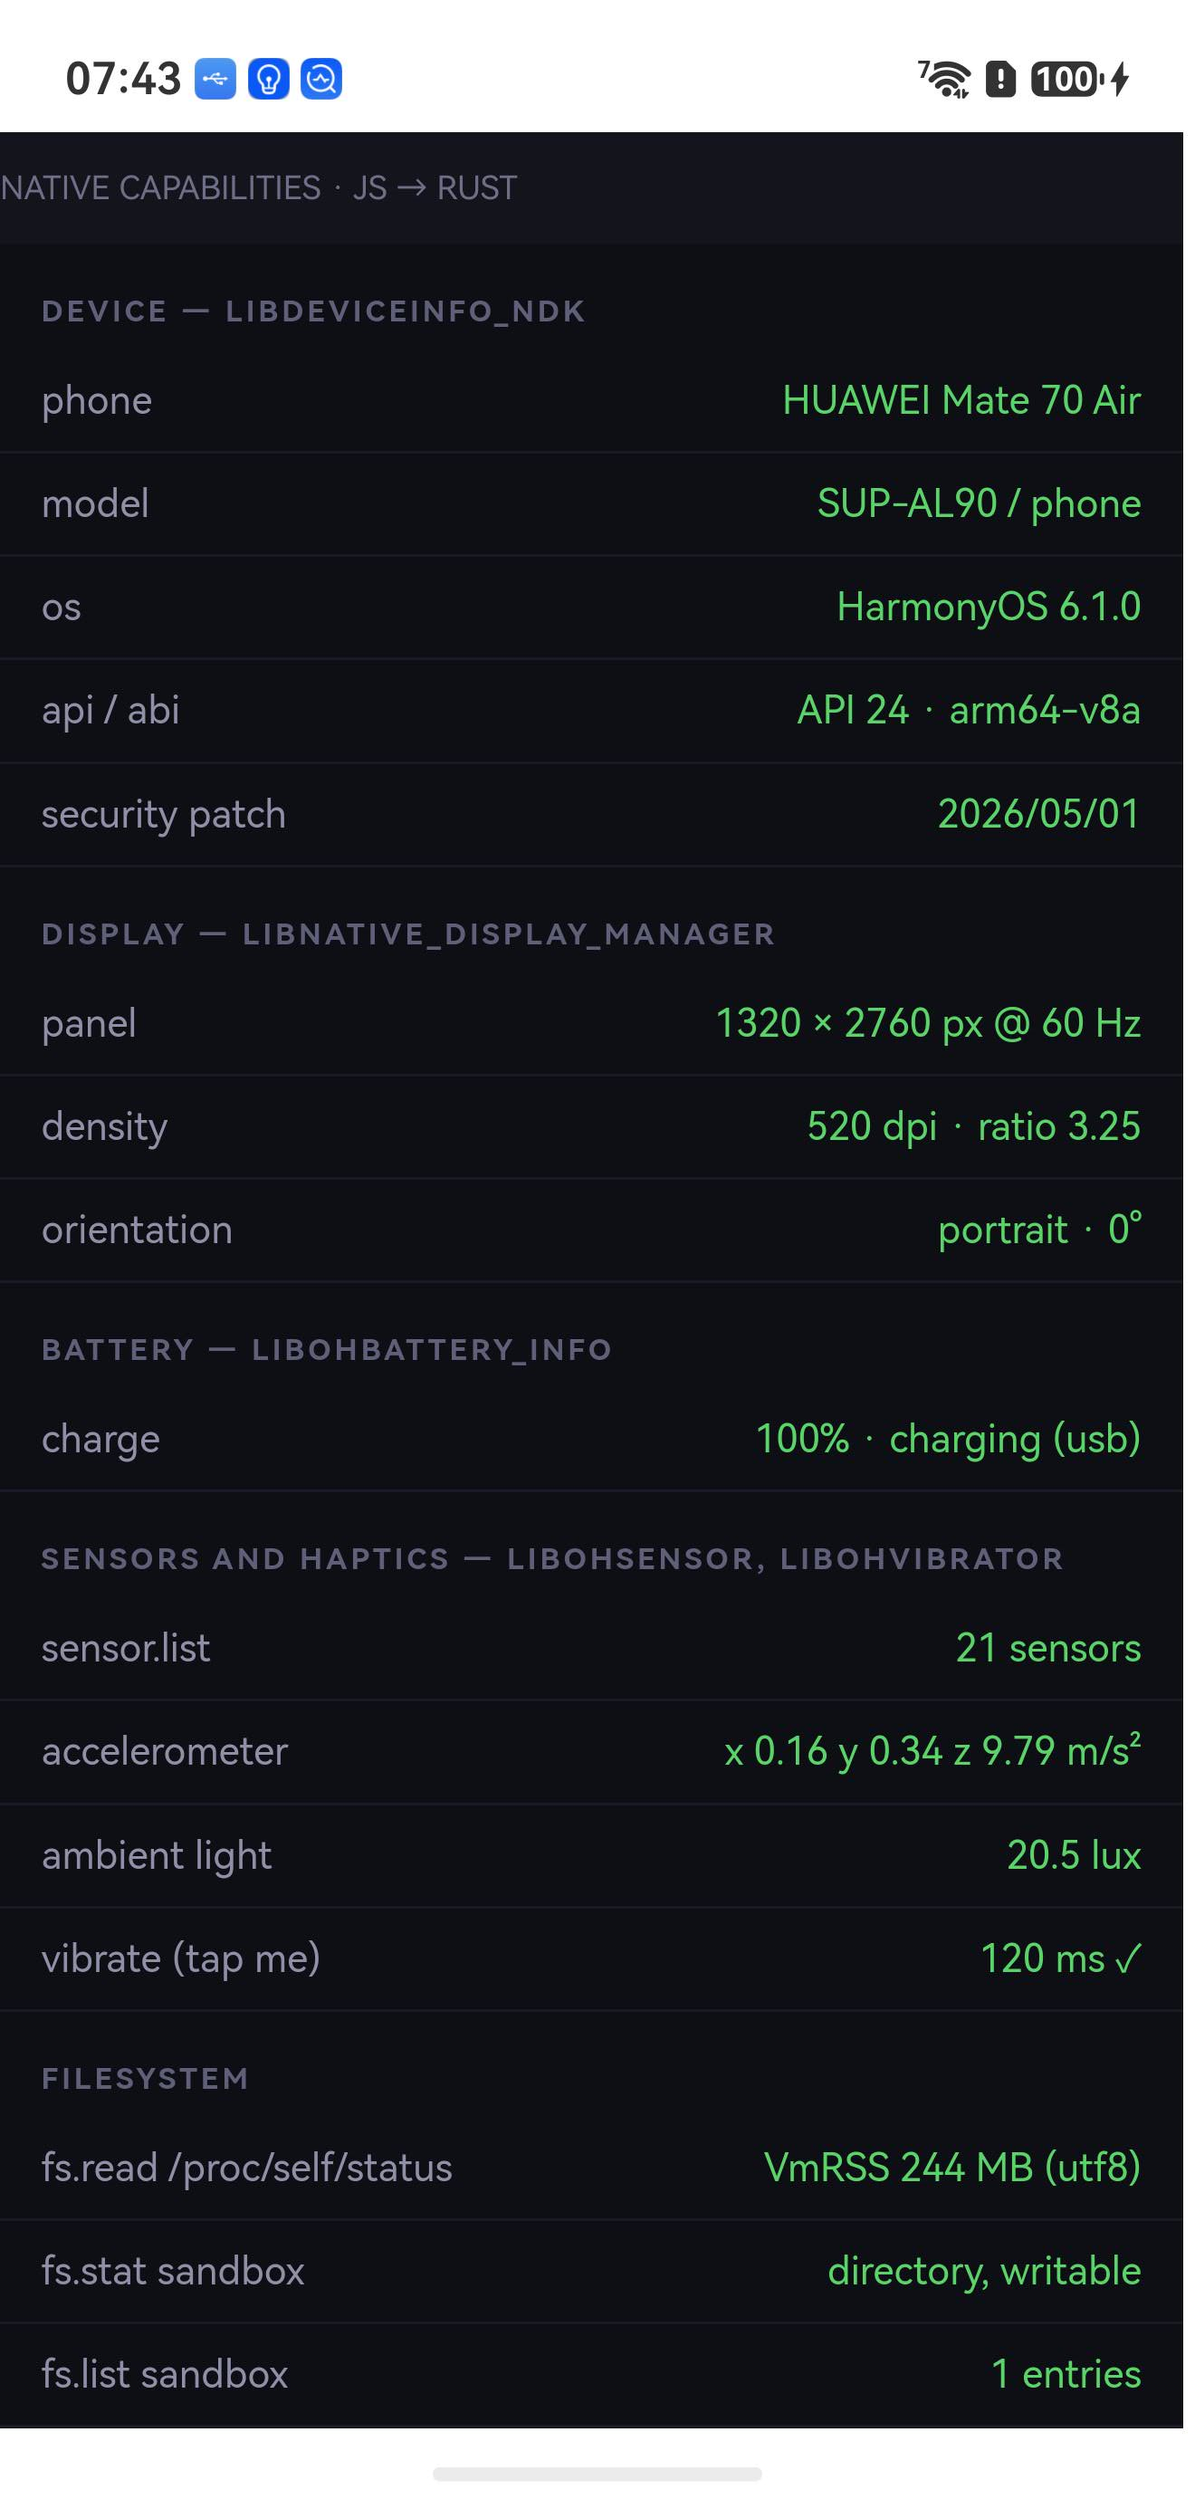
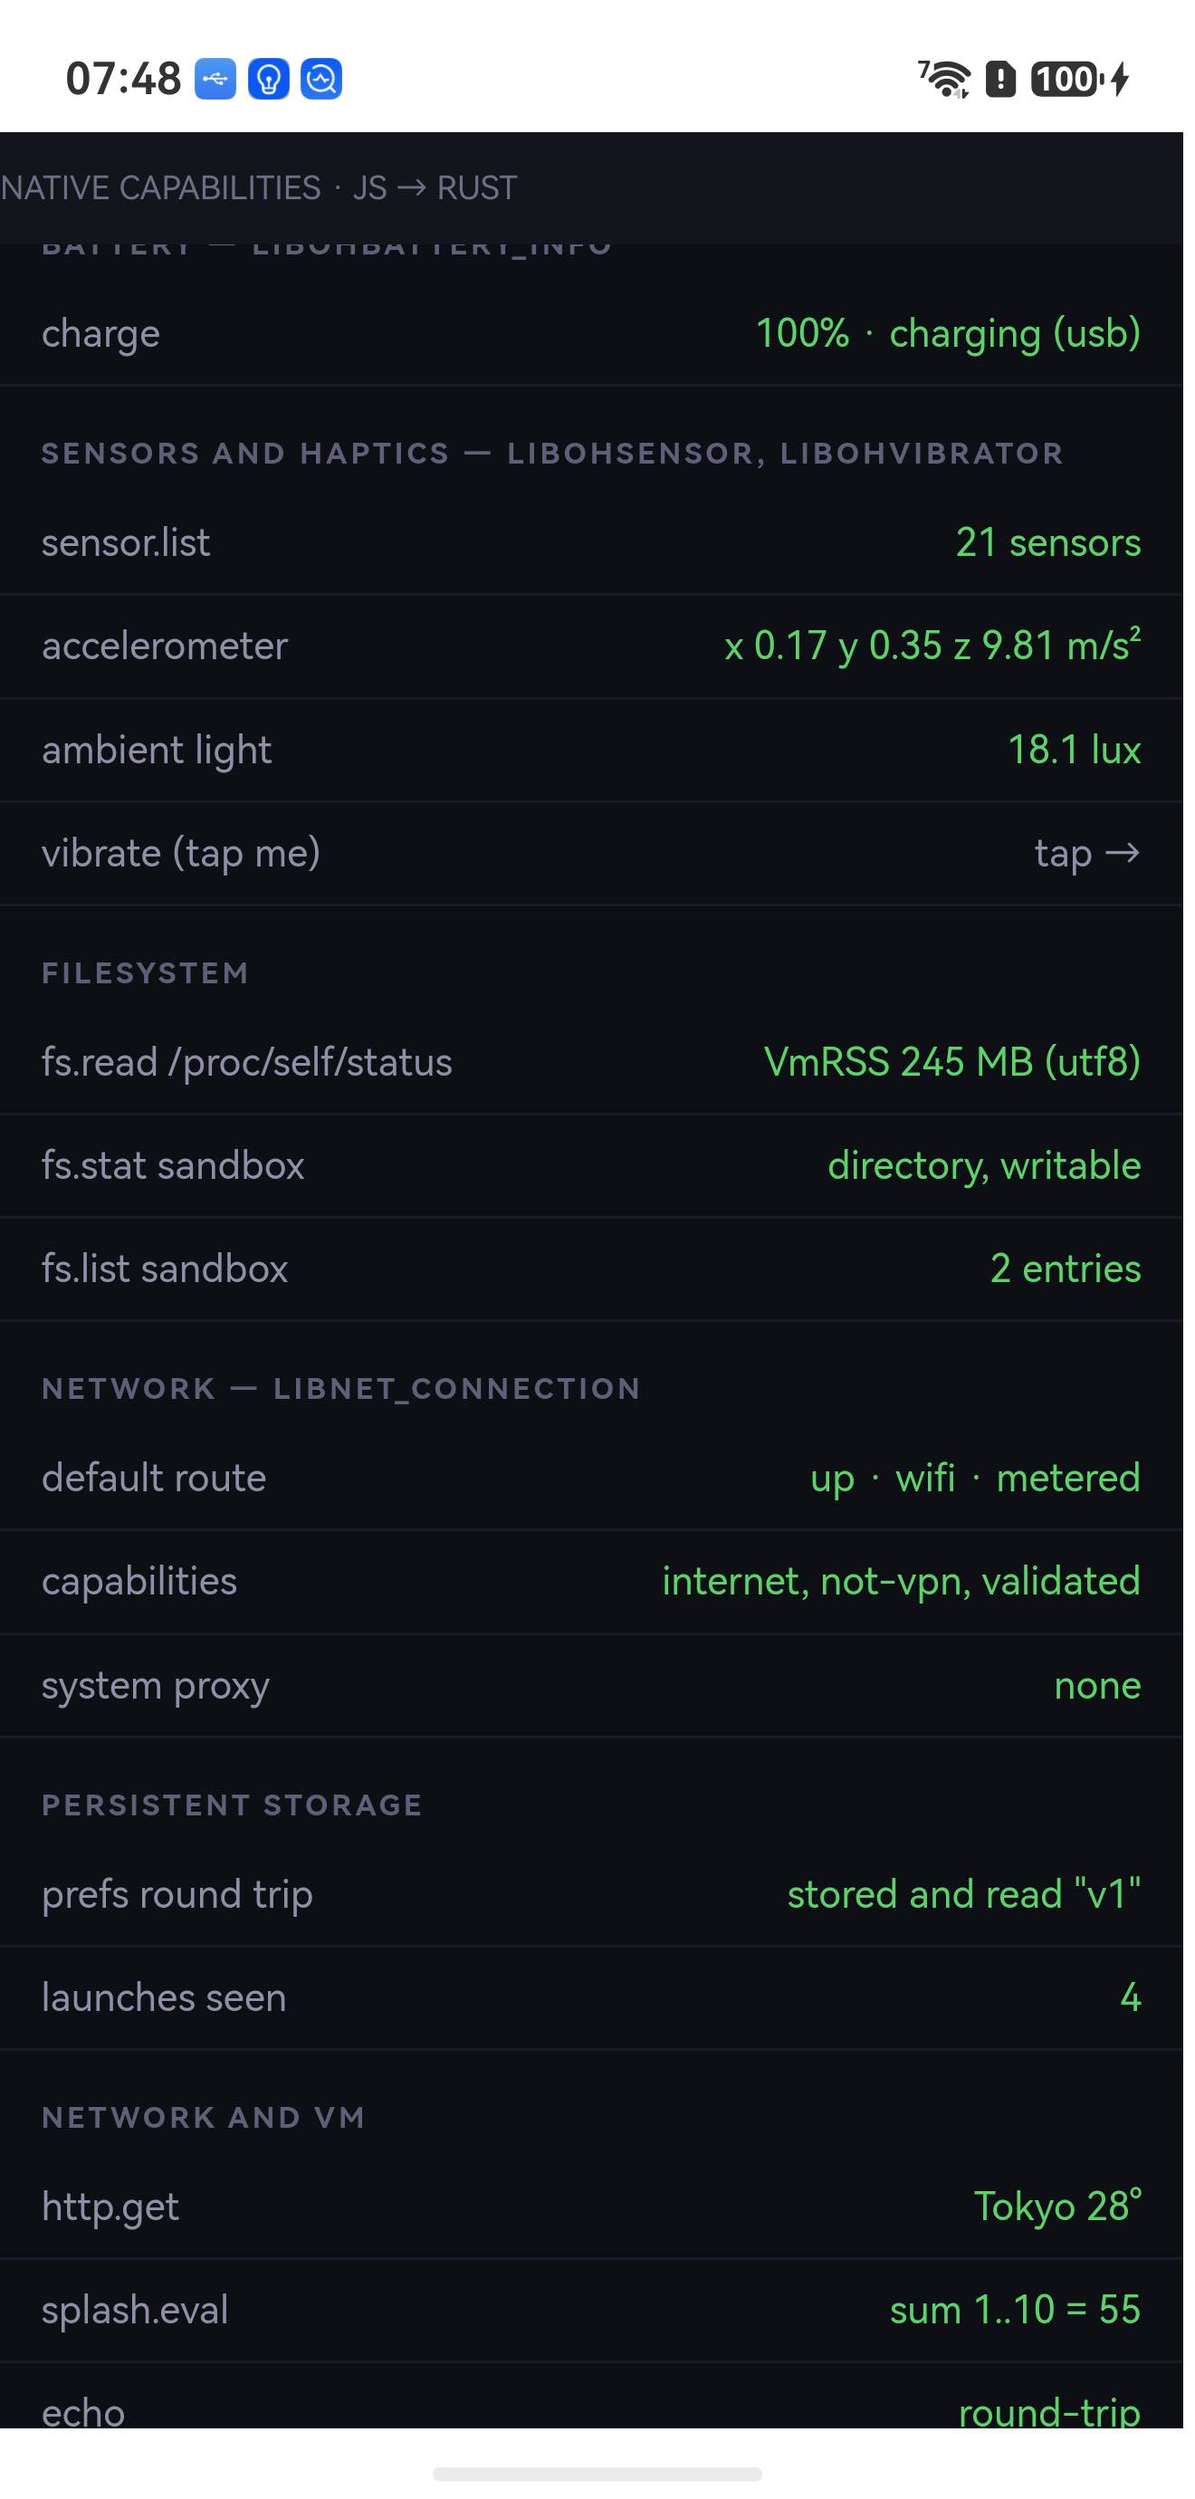
Two more capabilities: net.info and persistent prefs (#20)
net.info     libnet_connection   what the default route actually is
  prefs.*      std::fs             key-value that survives the process

Measured on the device:

  default route    up · wifi · metered
  capabilities     internet, not-vpn, validated
  system proxy     none
  prefs round trip stored and read "v1"
  launches seen    4

`navigator.onLine` is a boolean that mostly means "the browser has not noticed
a failure yet". net.info is the real thing: which bearer carries the default
route, whether the system considers the link *validated* rather than merely
associated, whether it is metered, and whether a proxy sits in front of it.

That last field earns its place from this project's own history. A stale global
proxy pointing at a 127.0.0.1 port nothing was listening on is what made a phone
here look like it had no internet while Wi-Fi showed connected -- a failure that
is invisible from inside a page and one row here.

prefs exists because a page in a web slot cannot lean on localStorage. The slot
is re-created whenever the DSL rebuilds, and generated pages arrive through
loadData under a synthetic baseUrl, so the origin the storage was scoped to is
not reliably the same one next time. State that survives has to live where the
app lives: one JSON file under files/, rewritten whole through a temp file and
a rename so a crash mid-write leaves the previous contents rather than a
truncated file that will not parse.
[…]

diff --git a/crates/splash-oh/src/netinfo.rs b/crates/splash-oh/src/netinfo.rs
@@ -1,0 +1,152 @@
+//! What the network actually is, from `libnet_connection`.
+//!
+//! `navigator.onLine` in a page is a boolean that mostly means "the browser has
+//! not noticed a failure yet". This is the real thing: which bearer carries the
+//! default route, whether the system considers the link validated (as opposed
+//! to merely associated), whether it is metered, and whether a proxy is in
+//! front of it.
+//!
+//! The proxy field earns its place. A stale global proxy pointing at a
+//! `127.0.0.1` port nothing was listening on is exactly what made a phone in
+//! this project look like it had no internet while the Wi-Fi showed connected —
+//! a failure that is invisible from inside a page and obvious here.
+
+use crate::bridge::json_str;
+use std::os::raw::c_char;
+
+const MAX_STR: usize = 256;
+const MAX_CAP: usize = 32;
+const MAX_BEARER: usize = 32;
+const MAX_EXCLUSION: usize = 256;
+
+#[repr(C)]
+struct NetHandle {
+    net_id: i32,
+}
+
+#[repr(C)]
+struct NetCapabilities {
+    link_up_bandwidth_kbps: u32,
+    link_down_bandwidth_kbps: u32,
+    net_caps: [i32; MAX_CAP],
+    net_caps_size: i32,
+    bearer_types: [i32; MAX_BEARER],
+    bearer_types_size: i32,
+}
+
+#[repr(C)]
+struct HttpProxy {
+    host: [c_char; MAX_STR],
+    exclusion_list: [[c_char; MAX_STR]; MAX_EXCLUSION],
+    exclusion_list_size: i32,
+    port: u16,
+}
+
+extern "C" {
+    fn OH_NetConn_HasDefaultNet(has: *mut i32) -> i32;
+    fn OH_NetConn_GetDefaultNet(handle: *mut NetHandle) -> i32;
+    fn OH_NetConn_IsDefaultNetMetered(metered: *mut i32) -> i32;
+    fn OH_NetConn_GetNetCapabilities(handle: *mut NetHandle, caps: *mut NetCapabilities) -> i32;
+    fn OH_NetConn_GetDefaultHttpProxy(proxy: *mut HttpProxy) -> i32;
+}
+
+fn bearer_name(b: i32) -> &'static str {
+    match b {
+        0 => "cellular",
+        1 => "wifi",
+        2 => "bluetooth",
+        3 => "ethernet",
+        4 => "vpn",
+        _ => "unknown",
+    }
+}
+
+fn cap_name(c: i32) -> &'static str {
+    match c {
+        0 => "mms",
+        11 => "not-metered",
+        12 => "internet",
+        15 => "not-vpn",
+        16 => "validated",
+        17 => "portal",
+        31 => "checking-connectivity",
+        _ => "other",
+    }
+}
+
+fn c_str(buf: &[c_char]) -> String {
+    let bytes: Vec<u8> = buf
+        .iter()
+        .map(|&c| c as u8)
+        .take_while(|&c| c != 0)
+        .collect();
+    String::from_utf8_lossy(&bytes).into_owned()
+}
+
+/// The default route and what carries it. JSON object.
+pub fn info() -> String {
+    let mut has: i32 = 0;
+    let has_net = unsafe { OH_NetConn_HasDefaultNet(&mut has) } == 0 && has != 0;
+
+    let mut metered: i32 = 0;
+    let metered_ok = unsafe { OH_NetConn_IsDefaultNetMetered(&mut metered) } == 0;
+
+    let mut bearers: Vec<&str> = Vec::new();
+    let mut caps: Vec<&str> = Vec::new();
+    let mut net_id = -1;
+    let mut down = 0u32;
+    let mut up = 0u32;
+
+    if has_net {
+        let mut handle = NetHandle { net_id: 0 };
+        if unsafe { OH_NetConn_GetDefaultNet(&mut handle) } == 0 {
+            net_id = handle.net_id;
+            // Zeroed rather than Default-derived: the struct is ~70 KB of
+            // fixed arrays and only the *_size fields say how much is real.
+            let mut c: NetCapabilities = unsafe { std::mem::zeroed() };
+            if unsafe { OH_NetConn_GetNetCapabilities(&mut handle, &mut c) } == 0 {
+                down = c.link_down_bandwidth_kbps;
+                up = c.link_up_bandwidth_kbps;
+                for i in 0..(c.bearer_types_size.max(0) as usize).min(MAX_BEARER) {
+                    bearers.push(bearer_name(c.bearer_types[i]));
+                }
+                for i in 0..(c.net_caps_size.max(0) as usize).min(MAX_CAP) {
+                    caps.push(cap_name(c.net_caps[i]));
+                }
+            }
+        }
+    }
+
+    // Boxed: HttpProxy carries a 256 x 256 exclusion list, which is 64 KB and
+    // has no business on the stack.
+    let mut proxy: Box<HttpProxy> = unsafe { Box::new(std::mem::zeroed()) };
+    let proxy_json = if unsafe { OH_NetConn_GetDefaultHttpProxy(&mut *proxy) } == 0 {
+        let host = c_str(&proxy.host);
+        if host.is_empty() {
+            "null".to_string()
+        } else {
+            format!("{{\"host\":{},\"port\":{}}}", json_str(&host), proxy.port)
+        }
+    } else {
+        "null".to_string()
+    };
+
+    let list = |v: &[&str]| v.iter().map(|s| json_str(s)).collect::<Vec<_>>().join(",");
+
+    format!(
+        "{{\"online\":{},\"netId\":{},\"metered\":{},\"bearers\":[{}],\"capabilities\":[{}],\
+         \"downKbps\":{},\"upKbps\":{},\"proxy\":{}}}",
+        has_net,
+        net_id,
+        if metered_ok {
+            (metered != 0).to_string()
+        } else {
+            "null".into()
+        },
+        list(&bearers),
+        list(&caps),
+        down,
+        up,
+        proxy_json,
+    )
+}

diff --git a/crates/splash-oh/src/prefs.rs b/crates/splash-oh/src/prefs.rs
@@ -1,0 +1,97 @@
+//! Persistent key-value storage for web surfaces, in the app sandbox.
+//!
+//! A page in a Splash web slot cannot use `localStorage` the way a browser page
+//! can: the slot is re-created whenever the DSL rebuilds, and generated pages
+//! arrive through `loadData` under a synthetic `baseUrl`, so whatever origin the
+//! storage was scoped to is not reliably the same one next time. State that
+//! survives has to live where the app lives.
+//!
+//! One JSON file under `files/`, rewritten whole. That is the right shape at
+//! this size — a card storing a few dozen settings is not a database, and a
+//! whole-file rewrite cannot leave a half-updated record behind the way an
+//! append log can.
+
+use crate::bridge::json_str;
+use std::collections::BTreeMap;
+use std::sync::Mutex;
+
+/// Where the file lives. `el2/base/files` is the app's own directory — the
+/// probe in `apps/files.rs` confirmed on device that this is what OHOS gives an
+/// app, rather than the Android-shaped `haps/entry/files` that does not exist.
+const STORE: &str = "/data/storage/el2/base/files/prefs.json";
+
+/// Caps, because a page decides what goes in here.
+const MAX_KEYS: usize = 500;
+const MAX_VALUE: usize = 64 * 1024;
+
+/// Loaded once and kept, so a read is not a file read. `None` until first use.
+static CACHE: Mutex<Option<BTreeMap<String, String>>> = Mutex::new(None);
+
+fn load() -> BTreeMap<String, String> {
+    let text = std::fs::read_to_string(STORE).unwrap_or_default();
+    serde_json::from_str::<BTreeMap<String, String>>(&text).unwrap_or_default()
+}
+
+fn with<T>(f: impl FnOnce(&mut BTreeMap<String, String>) -> T) -> T {
+    let mut guard = CACHE.lock().unwrap_or_else(|e| e.into_inner());
+    if guard.is_none() {
+        *guard = Some(load());
+    }
+    f(guard.as_mut().expect("just populated"))
+}
+
+/// Write the map out. Via a temp file and a rename, so a crash mid-write leaves
+/// the previous contents rather than a truncated file that will not parse.
+fn flush(map: &BTreeMap<String, String>) -> Result<(), String> {
+    let body = serde_json::to_string(map).map_err(|e| e.to_string())?;
+    let tmp = format!("{STORE}.tmp");
+    std::fs::write(&tmp, body).map_err(|e| e.to_string())?;
+    std::fs::rename(&tmp, STORE).map_err(|e| e.to_string())
+}
+
+/// One value, or JSON null when absent.
+pub fn get(key: &str) -> String {
+    with(|m| match m.get(key) {
+        Some(v) => json_str(v),
+        None => "null".into(),
+    })
+}
+
+/// Every key. Useful to a page that wants to know what it stored last run.
+pub fn keys() -> String {
+    with(|m| {
+        format!(
+            "[{}]",
+            m.keys().map(|k| json_str(k)).collect::<Vec<_>>().join(",")
+        )
+    })
+}
+
+pub fn set(key: &str, value: &str) -> Result<String, String> {
+    if key.is_empty() {
+        return Err("empty key".into());
+    }
+    if value.len() > MAX_VALUE {
+        return Err(format!("value larger than {MAX_VALUE} bytes"));
+    }
+    with(|m| {
+        if !m.contains_key(key) && m.len() >= MAX_KEYS {
+            return Err(format!("at the {MAX_KEYS}-key limit"));
+        }
+        m.insert(key.to_string(), value.to_string());
+        flush(m)?;
+        Ok(format!("{{\"key\":{},\"stored\":true}}", json_str(key)))
+    })
+}
+
+pub fn remove(key: &str) -> Result<String, String> {
+    with(|m| {
+        let existed = m.remove(key).is_some();
+        flush(m)?;
+        Ok(format!(
+            "{{\"key\":{},\"removed\":{}}}",
+            json_str(key),
+            existed
+        ))
+    })
+}

diff --git a/crates/splash-oh/src/apps/native.rs b/crates/splash-oh/src/apps/native.rs
@@ -83,6 +83,15 @@ h2{{font-size:10px;letter-spacing:1.2px;text-transform:uppercase;color:#5f5f7a;
 <div class=r><span class=k>fs.stat sandbox</span><span class="v m" id=f_stat>&#8230;</span></div>
 <div class=r><span class=k>fs.list sandbox</span><span class="v m" id=f_list>&#8230;</span></div>
 
+<h2>Network &mdash; libnet_connection</h2>
+<div class=r><span class=k>default route</span><span class="v m" id=w_net>&#8230;</span></div>
+<div class=r><span class=k>capabilities</span><span class="v m" id=w_caps>&#8230;</span></div>
+<div class=r><span class=k>system proxy</span><span class="v m" id=w_proxy>&#8230;</span></div>
+
+<h2>Persistent storage</h2>
+<div class=r><span class=k>prefs round trip</span><span class="v m" id=k_rt>&#8230;</span></div>
+<div class=r><span class=k>launches seen</span><span class="v m" id=k_runs>&#8230;</span></div>
+
 <h2>Network and VM</h2>
 <div class=r><span class=k>http.get</span><span class="v m" id=n_get>&#8230;</span></div>
 <div class=r><span class=k>splash.eval</span><span class="v m" id=n_vm>&#8230;</span></div>
@@ -106,7 +115,8 @@ devicePixelRatio.</div>
   if (!window.splash || !splash.available()) {{
     ['d_phone','d_model','d_os','d_api','d_patch','p_size','p_dens','p_rot',
      'b_cap','s_list','s_acc','s_light','s_vib',
-     'f_rss','f_stat','f_list','n_get','n_vm','n_echo','g_ssrf','g_unk']
+     'f_rss','f_stat','f_list','w_net','w_caps','w_proxy','k_rt','k_runs',
+     'n_get','n_vm','n_echo','g_ssrf','g_unk']
       .forEach(function (id) {{ set(id, 'f', 'no bridge'); }});
     return;
   }}
@@ -178,6 +188,31 @@ devicePixelRatio.</div>
   call('fs.list', SANDBOX, ['f_list'], function (l) {{
     set('f_list', 'p', l.entries.length + ' entries');
   }});
+
+  call('net.info', undefined, ['w_net','w_caps','w_proxy'], function (n) {{
+    set('w_net', n.online ? 'p' : 'f',
+        (n.online ? 'up' : 'down') + ' · ' + (n.bearers.join(', ') || '?')
+        + (n.metered === true ? ' · metered' : ''));
+    // "validated" is the interesting one: a link can be associated and still
+    // not carry traffic, which is what the phone looks like behind a dead proxy.
+    set('w_caps', n.capabilities.indexOf('validated') >= 0 ? 'p' : 'w',
+        n.capabilities.join(', ') || 'none');
+    set('w_proxy', n.proxy ? 'w' : 'p',
+        n.proxy ? n.proxy.host + ':' + n.proxy.port : 'none');
+  }});
+
+  // Written, read back, and counted across launches -- so the row proves the
+  // value survived the process rather than just this page.
+  splash.invoke('prefs.set', {{ key: 'probe', value: 'v1' }})
+    .then(function () {{ return splash.invoke('prefs.get', 'probe'); }})
+    .then(function (v) {{ set('k_rt', v === 'v1' ? 'p' : 'f', 'stored and read "' + v + '"'); }})
+    .catch(function (e) {{ set('k_rt', 'f', e.message); }});
+
+  splash.invoke('prefs.get', 'launches').then(function (v) {{
+    var n = (parseInt(v, 10) || 0) + 1;
+    return splash.invoke('prefs.set', {{ key: 'launches', value: String(n) }})
+      .then(function () {{ set('k_runs', 'p', n + (n === 1 ? ' (first run)' : '')); }});
+  }}).catch(function (e) {{ set('k_runs', 'f', e.message); }});
 
   call('http.get', 'https://api.open-meteo.com/v1/forecast?latitude=35.7&longitude=139.7'
        + '&current=temperature_2m&timezone=auto', ['n_get'], function (body) {{

diff --git a/crates/splash-oh/src/bridge.rs b/crates/splash-oh/src/bridge.rs
@@ -178,6 +178,44 @@ pub fn invoke(slot: u32, call_id: String, tool: String, args: String) {
             });
         }
 
+        // What the default route actually is. `navigator.onLine` is a boolean
+        // that mostly means "the browser has not noticed a failure yet"; this
+        // is the bearer, whether the system considers the link validated, and
+        // whether a proxy sits in front of it.
+        "net.info" => reply(slot, call_id, ok(crate::netinfo::info())),
+
+        // Persistent key-value in the app sandbox. A page here cannot rely on
+        // localStorage: the slot is re-created whenever the DSL rebuilds, and
+        // generated pages arrive under a synthetic baseUrl, so the origin the
+        // storage was scoped to is not reliably the same one next time.
+        "prefs.get" => reply(slot, call_id, ok(crate::prefs::get(args.trim_matches('"')))),
+
+        "prefs.keys" => reply(slot, call_id, ok(crate::prefs::keys())),
+
+        // Args: {"key": "...", "value": "..."}
+        "prefs.set" => {
+            let v: serde_json::Value = serde_json::from_str(&args).unwrap_or_default();
+            let k = v.get("key").and_then(|x| x.as_str()).unwrap_or("");
+            let val = v.get("value").and_then(|x| x.as_str()).unwrap_or("");
+            reply(
+                slot,
+                call_id,
+                match crate::prefs::set(k, val) {
+                    Ok(j) => ok(j),
+                    Err(e) => err(&e),
+                },
+            );
+        }
+
+        "prefs.remove" => reply(
+            slot,
+            call_id,
+            match crate::prefs::remove(args.trim_matches('"')) {
+                Ok(j) => ok(j),
+                Err(e) => err(&e),
+            },
+        ),
+
         // Haptics. A page in a browser has no route to the motor at all.
         "vibrate" => {
             let ms = args

diff --git a/crates/splash-oh/build.rs b/crates/splash-oh/build.rs
@@ -55,4 +55,7 @@ fn main() {
     // ohos.permission.VIBRATE declared in module.json5.
     println!("cargo:rustc-link-lib=dylib=ohsensor");
     println!("cargo:rustc-link-lib=dylib=ohvibrator.z");
+    // What the default route actually is, including whether a proxy sits
+    // in front of it -- a stale one is invisible from inside a page.
+    println!("cargo:rustc-link-lib=dylib=net_connection");
 }

diff --git a/crates/splash-oh/src/lib.rs b/crates/splash-oh/src/lib.rs
@@ -20,6 +20,8 @@ pub mod device;
 pub mod dsl;
 pub mod mem;
 pub mod net;
+pub mod netinfo;
+pub mod prefs;
 pub mod sensor;
 pub mod webslot;
 pub mod wechat;
